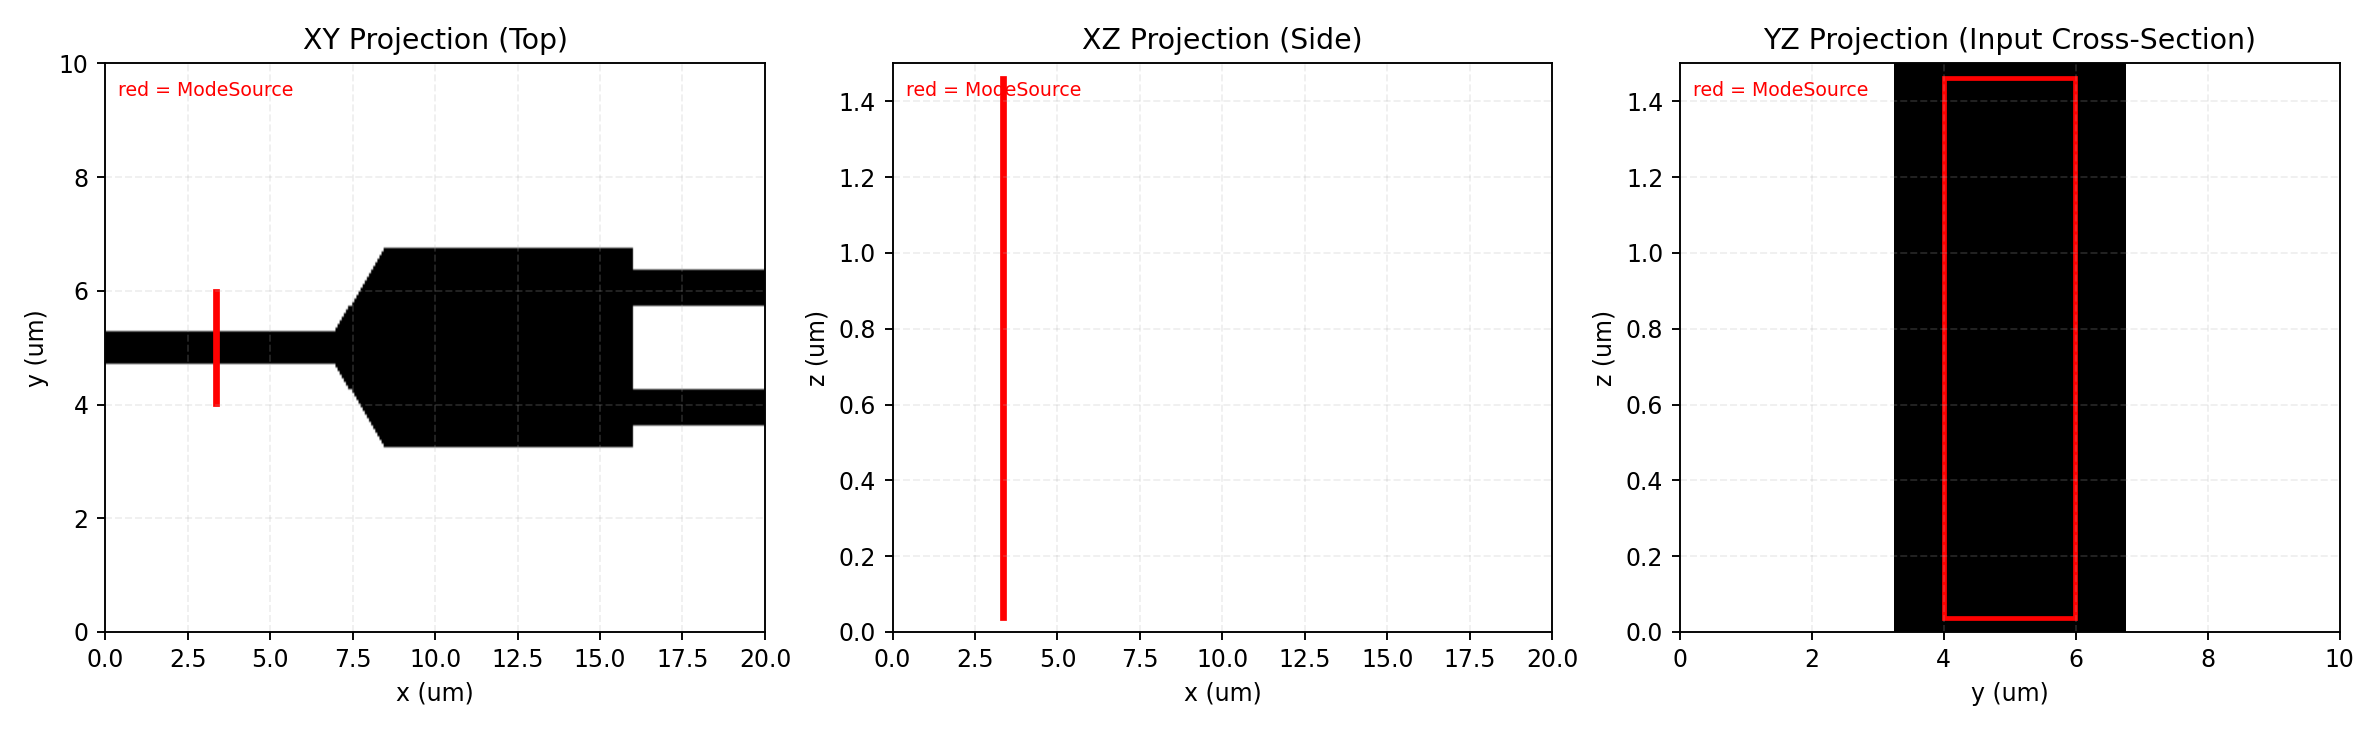
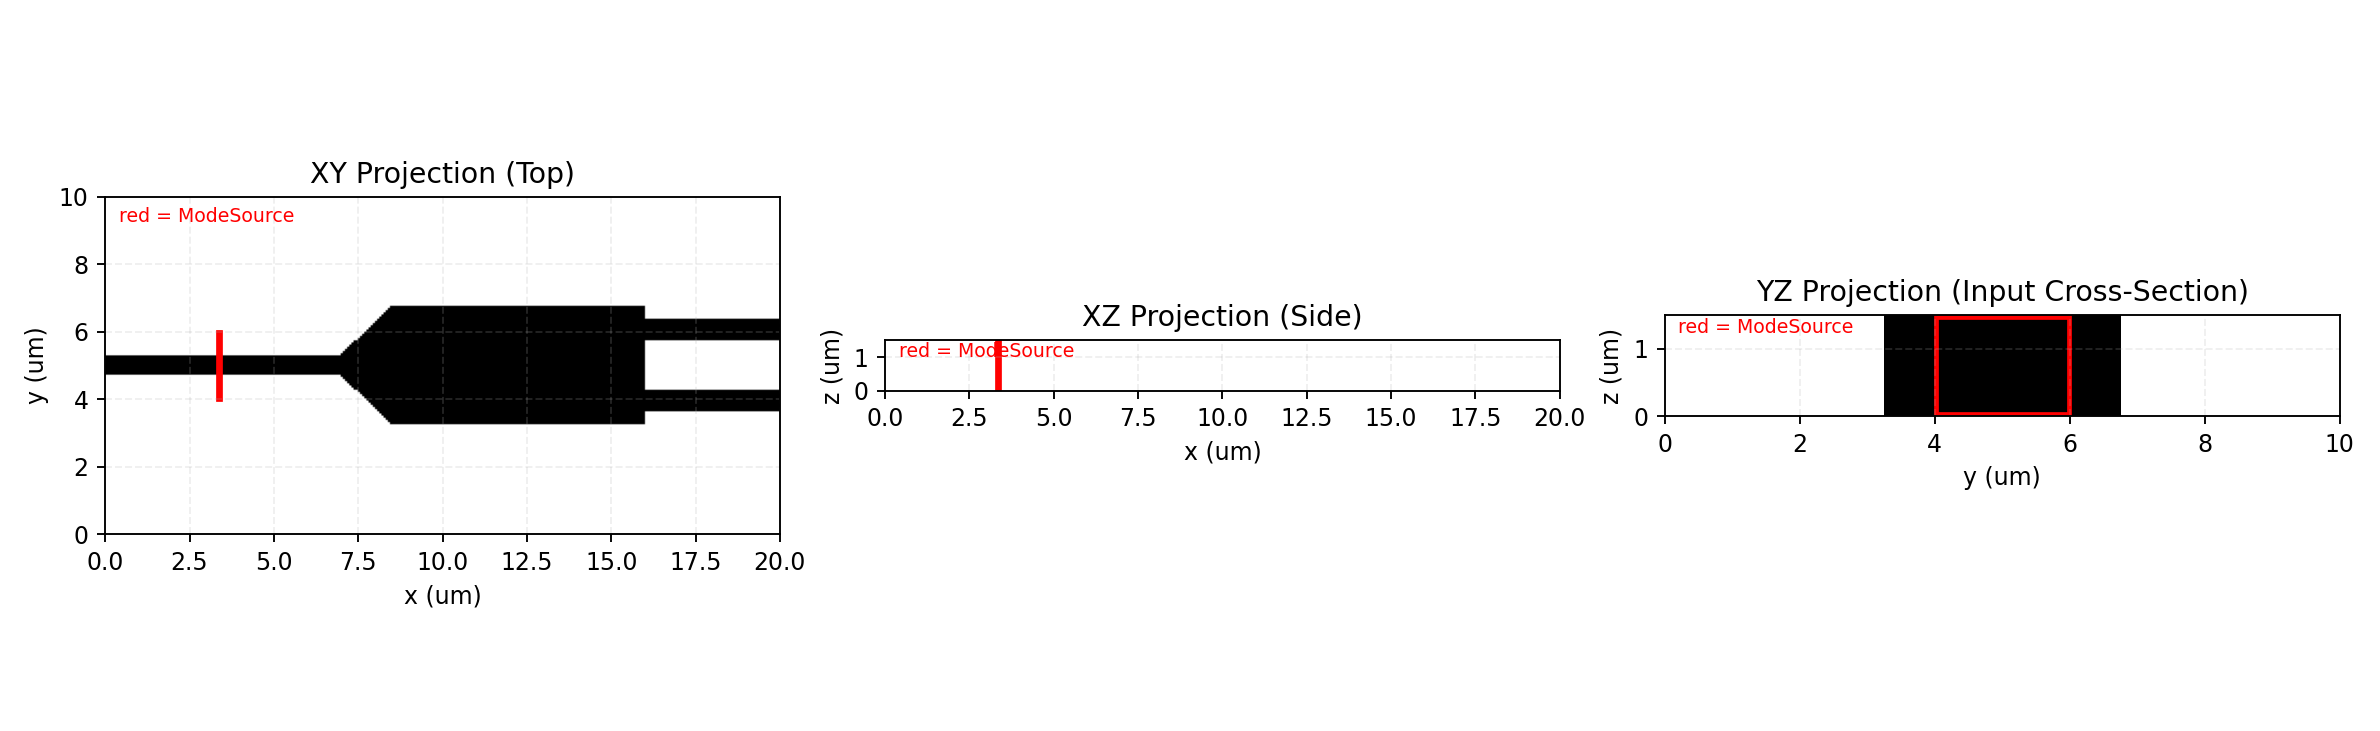
Improve projection view.

diff --git a/examples/1_mmi_3d.py b/examples/1_mmi_3d.py
@@ -147,7 +147,13 @@ xz = core_mask.max(axis=1)  # z,x
 yz = core_mask.max(axis=2)  # z,y
 
 fig, axes = plt.subplots(1, 3, figsize=(14, 4.3))
-axes[0].imshow(xy, origin="lower", cmap="Greys", extent=[0, X / um, 0, Y / um], aspect="auto")
+axes[0].imshow(
+    xy,
+    origin="lower",
+    cmap="Greys",
+    extent=[0, X / um, 0, Y / um],
+    aspect="equal",
+)
 axes[0].set_title("XY Projection (Top)")
 axes[0].set_xlabel("x (um)")
 axes[0].set_ylabel("y (um)")
@@ -162,7 +168,13 @@ axes[0].add_patch(
     )
 )
 
-axes[1].imshow(xz, origin="lower", cmap="Greys", extent=[0, X / um, 0, Z / um], aspect="auto")
+axes[1].imshow(
+    xz,
+    origin="lower",
+    cmap="Greys",
+    extent=[0, X / um, 0, Z / um],
+    aspect="equal",
+)
 axes[1].set_title("XZ Projection (Side)")
 axes[1].set_xlabel("x (um)")
 axes[1].set_ylabel("z (um)")
@@ -177,7 +189,13 @@ axes[1].add_patch(
     )
 )
 
-axes[2].imshow(yz, origin="lower", cmap="Greys", extent=[0, Y / um, 0, Z / um], aspect="auto")
+axes[2].imshow(
+    yz,
+    origin="lower",
+    cmap="Greys",
+    extent=[0, Y / um, 0, Z / um],
+    aspect="equal",
+)
 axes[2].set_title("YZ Projection (Input Cross-Section)")
 axes[2].set_xlabel("y (um)")
 axes[2].set_ylabel("z (um)")
